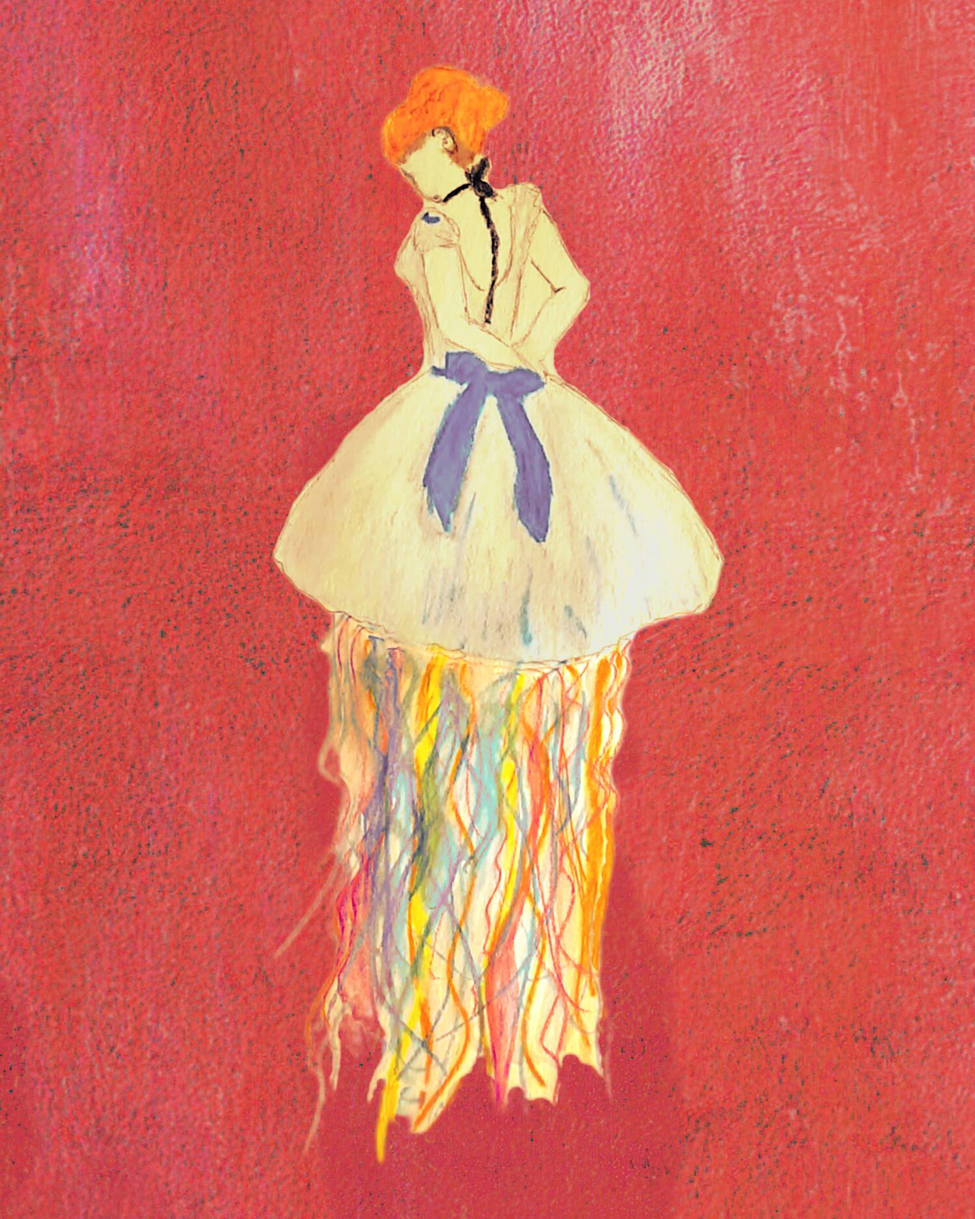
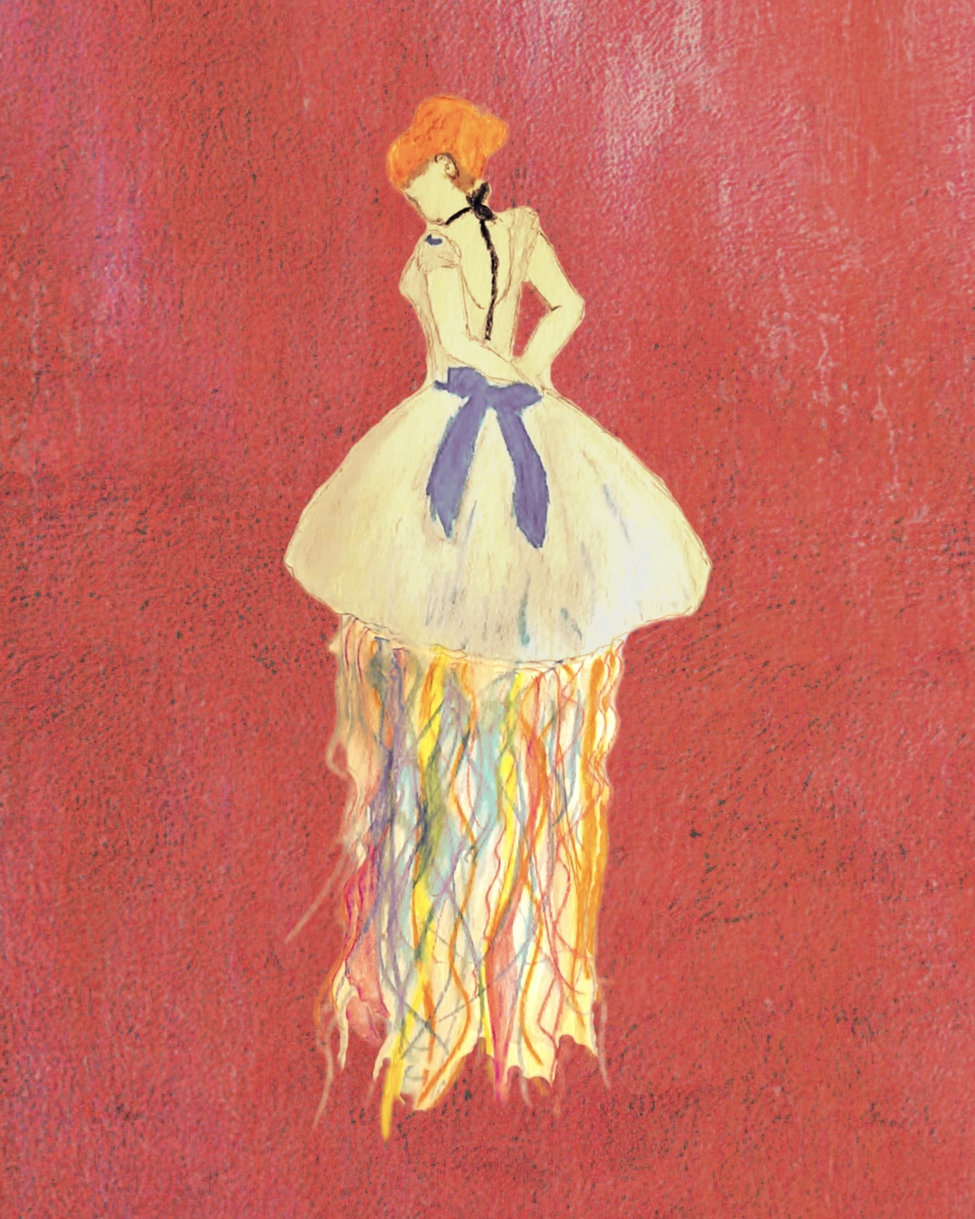
Fix some things

diff --git a/public/style.css b/public/style.css
@@ -328,18 +328,18 @@ main {
   place-content: center;
   justify-self: end;
   width: 7.5rem;
-  aspect-ratio: 1246 / 1050;
-  padding: 8% 12% 25% 10%;
+  aspect-ratio: 300 / 253;
+  padding: 13% 12% 25% 10%;
   color: var(--black);
   font-size: 0.7rem;
   line-height: 1.1;
   margin-bottom: -0.5rem;
   background:
-    url("img/speech-bubble.png") 0 0 / 100%,
+    url("img/speech-bubble.png") 0 0 / 100% no-repeat,
     var(--crab);
   mask:
-    url("img/speech-bubble-bg.png") 0 0 / 100%,
-    url("img/speech-bubble.png") 0 0 / 100%;
+    url("img/speech-bubble-bg.png") 0 0 / 100% no-repeat,
+    url("img/speech-bubble.png") 0 0 / 100% no-repeat;
 }
 
 .crab::before,
@@ -392,7 +392,7 @@ main {
   height: 100%;
   max-width: none;
   max-height: none;
-  margin: 0;
+  margin: auto;
   padding: 0 0 var(--space-4);
   border: none;
   background-color: var(--crab);

diff --git a/public/trove/monthly/fish/index.html b/public/trove/monthly/fish/index.html
@@ -67,9 +67,8 @@
             When he reached the final crossing he paused. Across the street was a reflective shop window. Martin
             questions when a window becomes a glass wall. <em>All these shop walls.</em> He recognised the reflection
             &ndash; himself within it. But he did not recognise the bag in his right hand. This bag was beige.
-            <em
-              >Why is the bag beige? Martin considered his shock. Is this because I drank the coffee first? Or is it the
-              navy? Should I know? Why is the bag beige?</em
+            <em>Why is the bag beige?</em> Martin considered his shock.<em>
+              Is this because I drank the coffee first? Or is it the navy? Should I know? Why is the bag beige?</em
             >
           </p>
 
